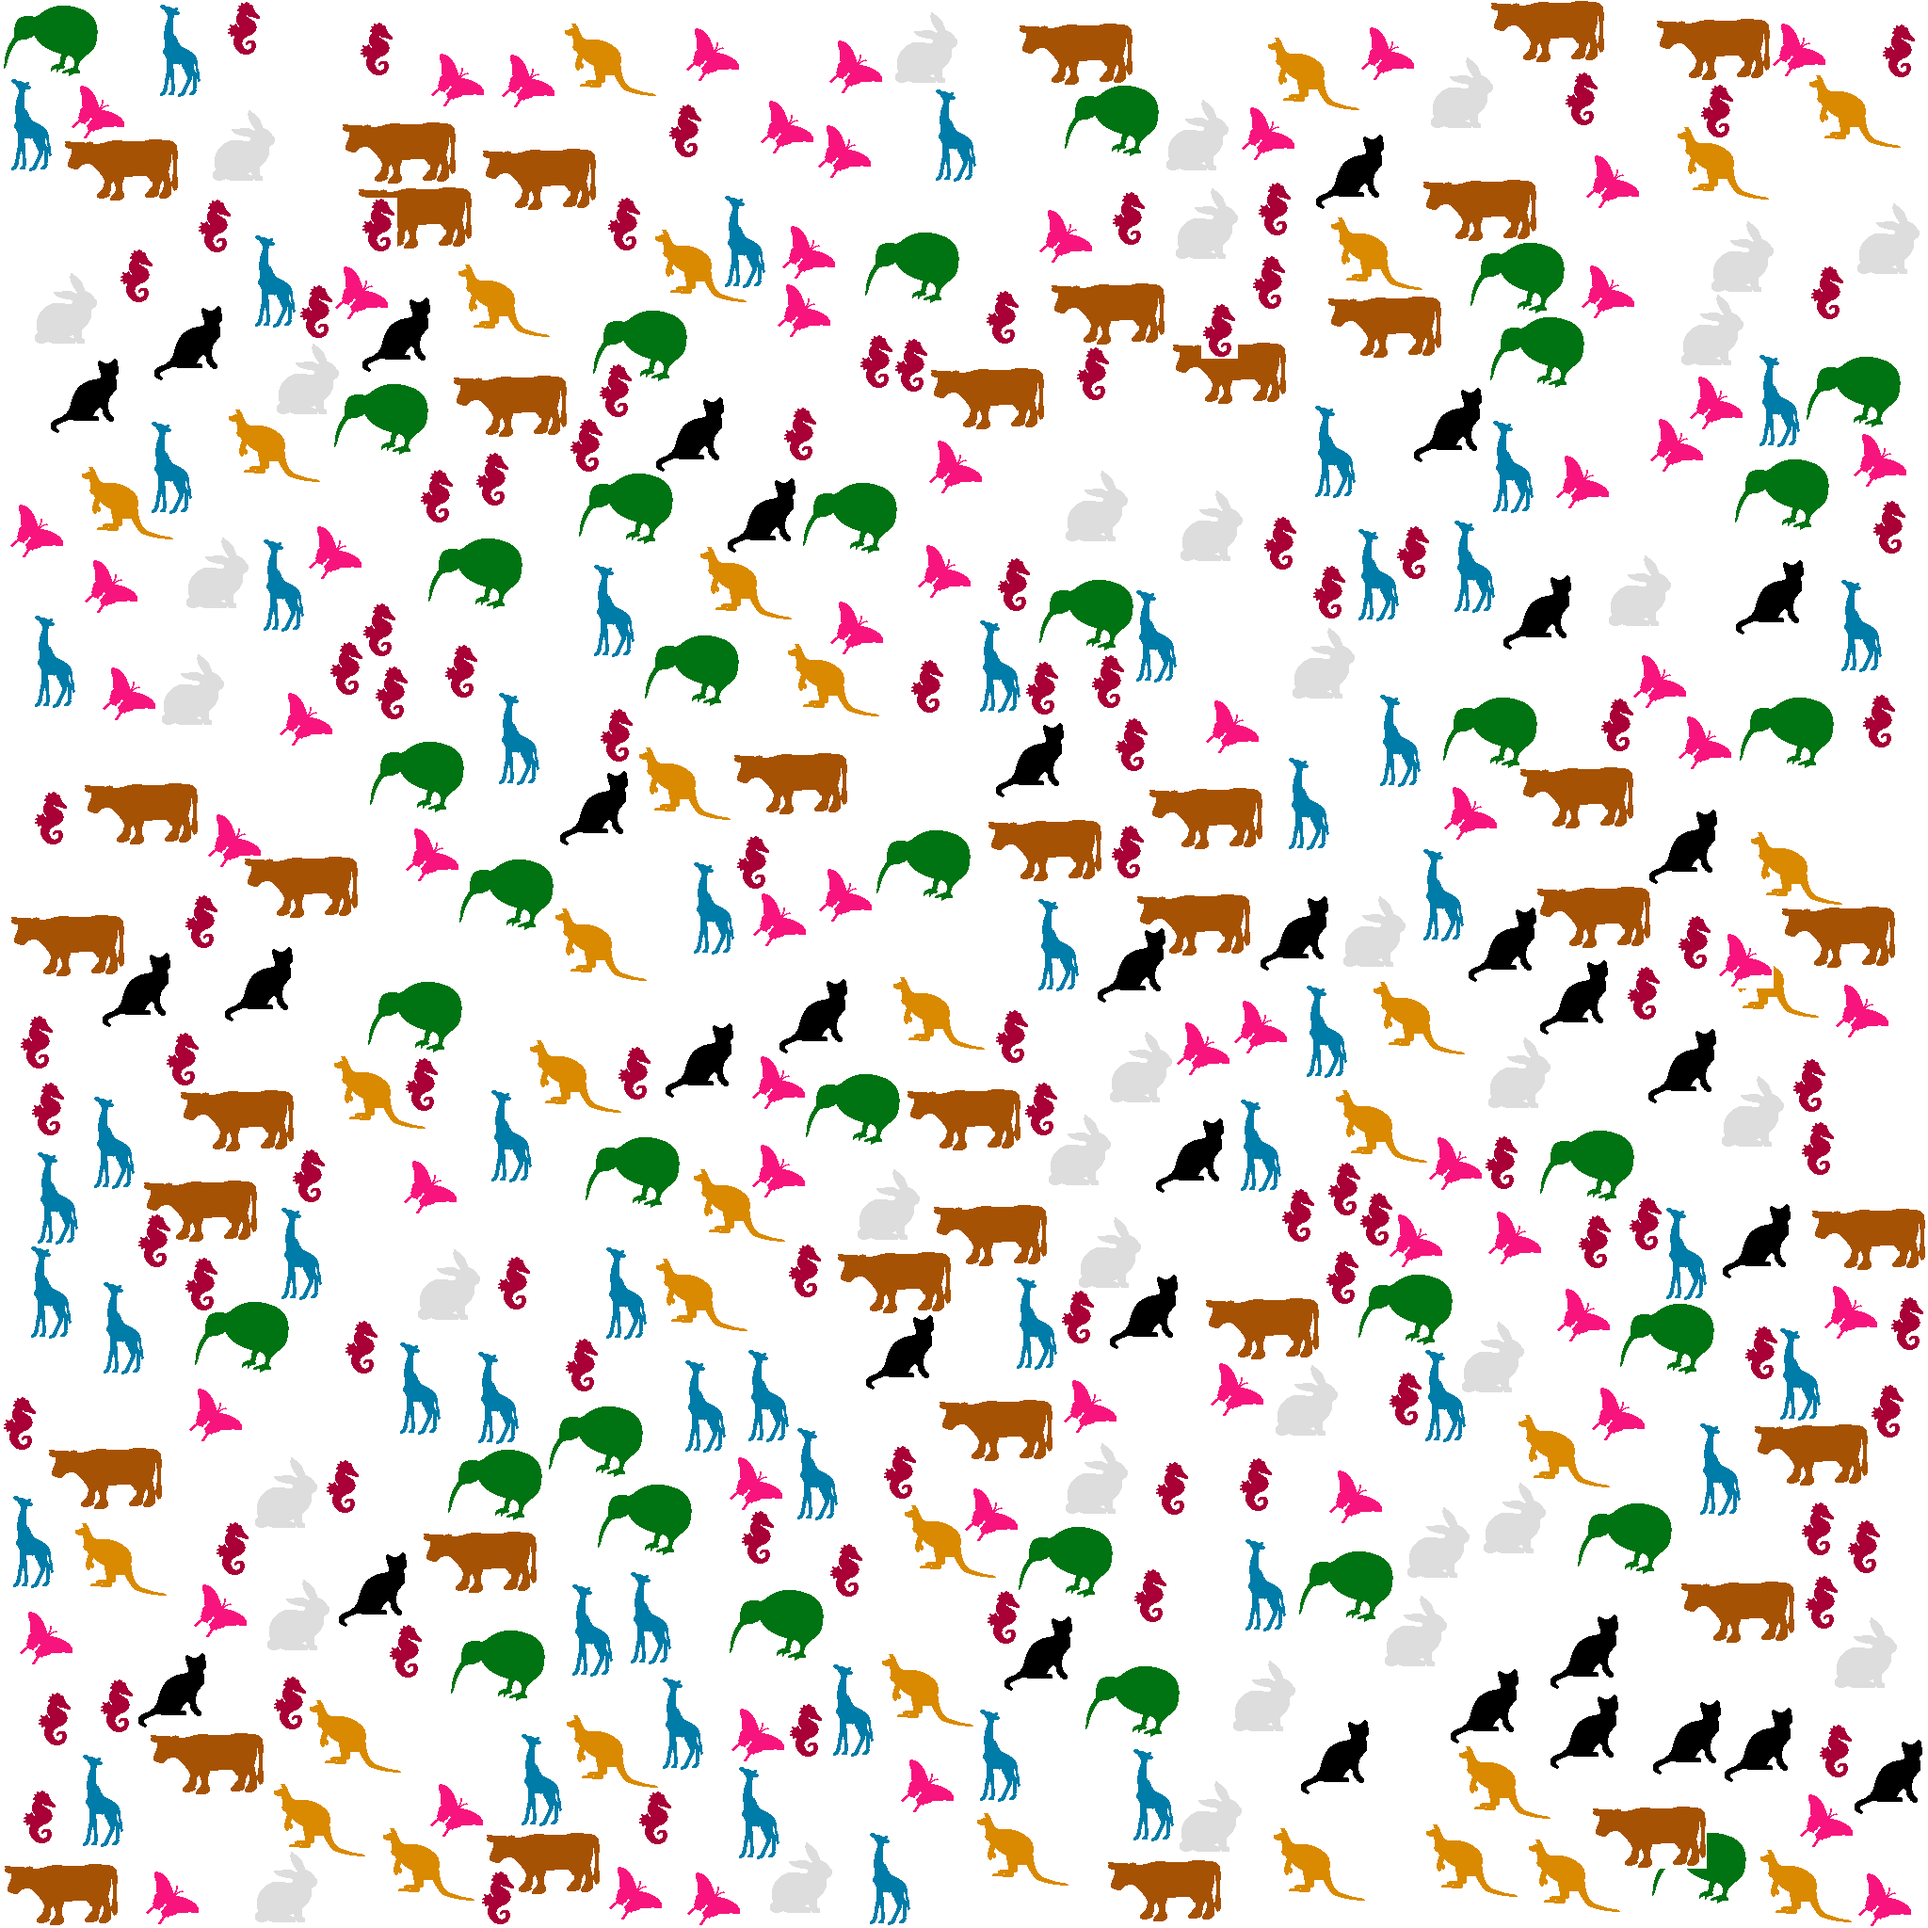
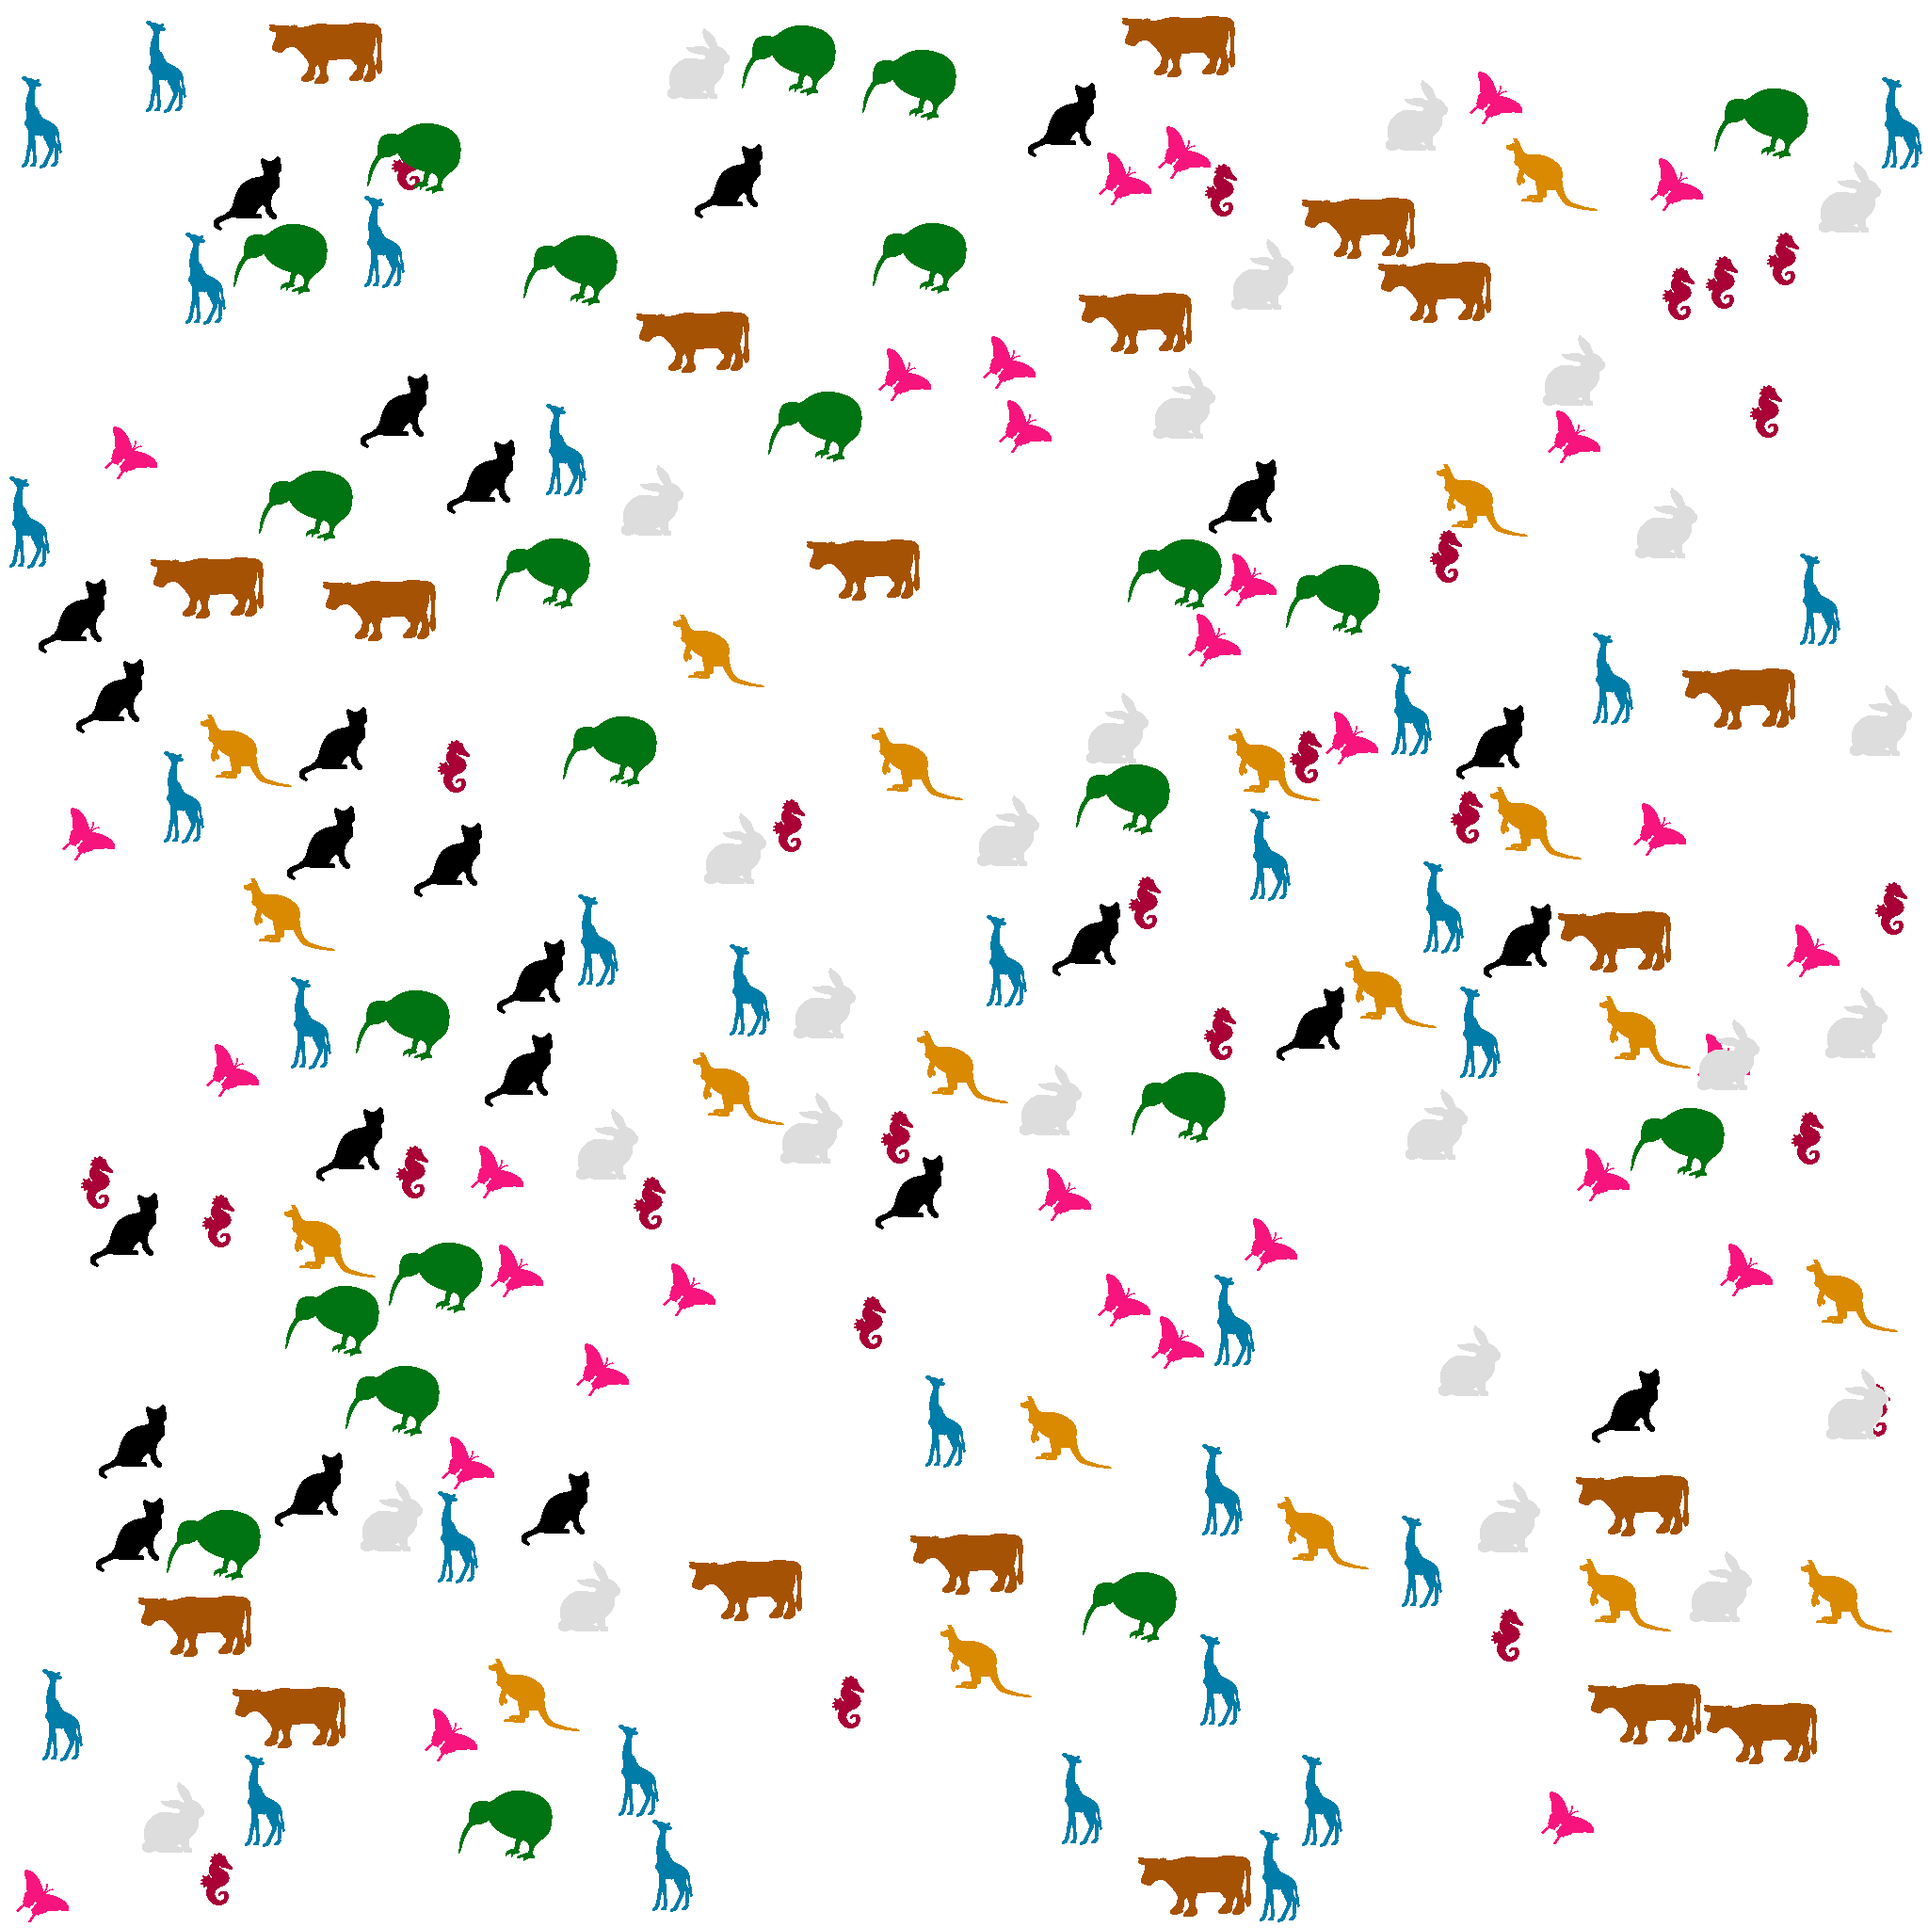
rectangle boundary check

Changed region(s): [[0.0, 0.0, 1.0, 1.0], [0.0, 0.4688, 0.0938, 0.5312]]

diff --git a/q1.java b/q1.java
@@ -15,6 +15,12 @@ public class q1 {
     public static int n = 100; // icons added/changed
     public static final int ICONS = 8; // total number of icons
 
+    // locks 
+    static final Object IMG_LOCK = new Object();
+    static final Object COUNT_LOCK = new Object();
+    
+
+
     // icons image
     public static BufferedImage[] icons = new BufferedImage[ICONS];
 
@@ -98,7 +104,7 @@ public class q1 {
 
         ImageIO.write(imgout, "png", outputfile);
         
-        System.out.println("Time taken: " + (System.currentTimeMillis() - startTime) + " milliseconds");
+        System.out.println(System.currentTimeMillis() - startTime);
 
     }
 
@@ -124,40 +130,66 @@ public class q1 {
             // here we use the thread local random instead of the Random class
             ThreadLocalRandom random = ThreadLocalRandom.current();
             // pick a random icon
-            int icon = random.nextInt(ICONS);
-            System.out.println("Picked icon: " + icon);
+            while (true) {
+                int icon = random.nextInt(ICONS);
 
-            // get the width and height of the icon
-            int width = icons[icon].getWidth();
-            int height = icons[icon].getHeight();
-            System.out.println("Width: " + width + ", Height: " + height);
+                // get the width and height of the icon
+                int width = icons[icon].getWidth();
+                int height = icons[icon].getHeight();
 
-            // pick a random position
-            int x = random.nextInt(outputwidth);
-            int y = random.nextInt(outputheight);
-            System.out.println("Picked position: " + x + ", " + y);
 
-            // stay inside the boundary
-            if (x + width > outputwidth || y + height > outputheight) {
-                System.out.println("Icon does not fit at position: " + x + ", " + y);
-                return;
-            }
+                // pick a random position in side of the boundary
+                int x = random.nextInt(outputwidth - width + 1);
+                int y = random.nextInt(outputheight - height + 1);
 
-            // varify the icon
-            for (int i = 0; i < width; i++) {
-                for (int j = 0; j < height; j++) {
-                    if (imgout.getRGB(x + i, y + j) != 0) {
-                        System.out.println("pixel already exists at position: " + x + ", " + y);
-                        return;
+
+
+
+                synchronized (IMG_LOCK) {
+                // varify the icon
+                    boolean posvalid = true;
+
+                    // check only the boundary of the icon area
+                    for (int i = 0; i < width && posvalid; i++) {
+                        if (imgout.getRGB(x + i, y) != 0) {
+                            posvalid = false;
+                            break;
+                        }
+                        if (imgout.getRGB(x + i, y + height - 1) != 0) {
+                            posvalid = false;
+                            break;
+                        }
+                    }
+                    for (int j = 1; j < height - 1 && posvalid; j++) {
+                        if (imgout.getRGB(x, y + j) != 0) {
+                            posvalid = false;
+                            break;
+                        }
+                        if (imgout.getRGB(x + width - 1, y + j) != 0) {
+                            posvalid = false;
+                            break;
+                        }
+                    }
+
+                    if (!posvalid) {
+                        continue;
+                    }
+
+                    // add the icon to the output image
+                    for (int i = 0; i < width; i++) {
+                        for (int j = 0; j < height; j++) {
+                            int iconPixel = icons[icon].getRGB(i, j);
+                            if (iconPixel != 0) {
+                                imgout.setRGB(x + i, y + j, iconPixel);
+                            }
+                        }
                     }
                 }
-            } 
 
-            // add the icon to the output image
-            for (int i = 0; i < width; i++) {
-                for (int j = 0; j < height; j++) {
-                    imgout.setRGB(x + i, y + j,
-                                  icons[icon].getRGB(i, j));
+                synchronized (COUNT_LOCK) {
+                    if (n <= 0) return;
+                    n--;
+                    if (n <= 0) return;
                 }
             }
 
